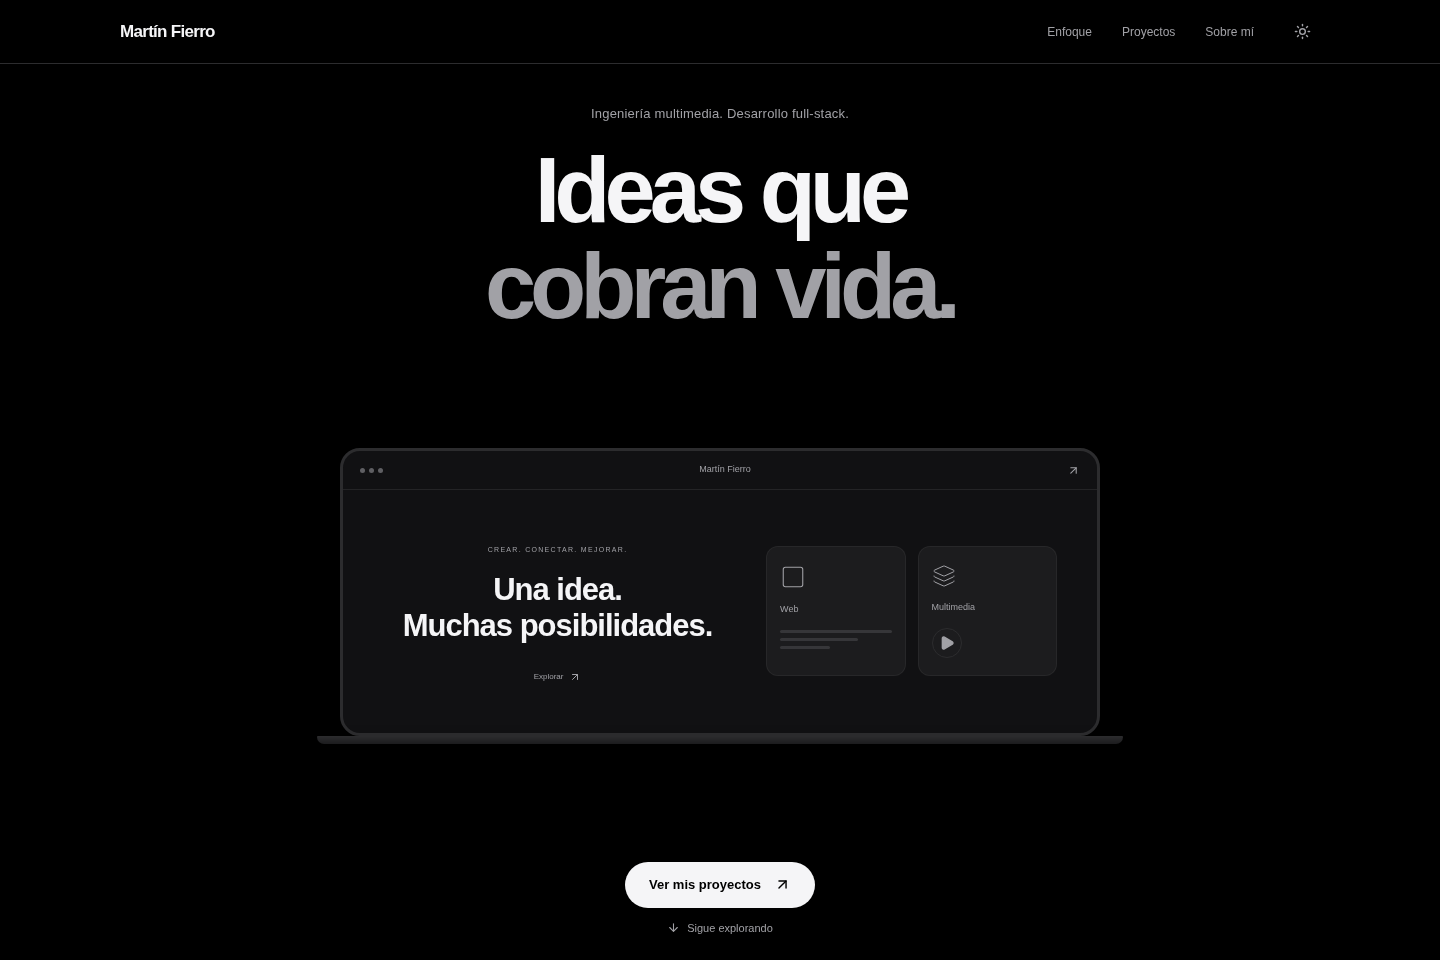
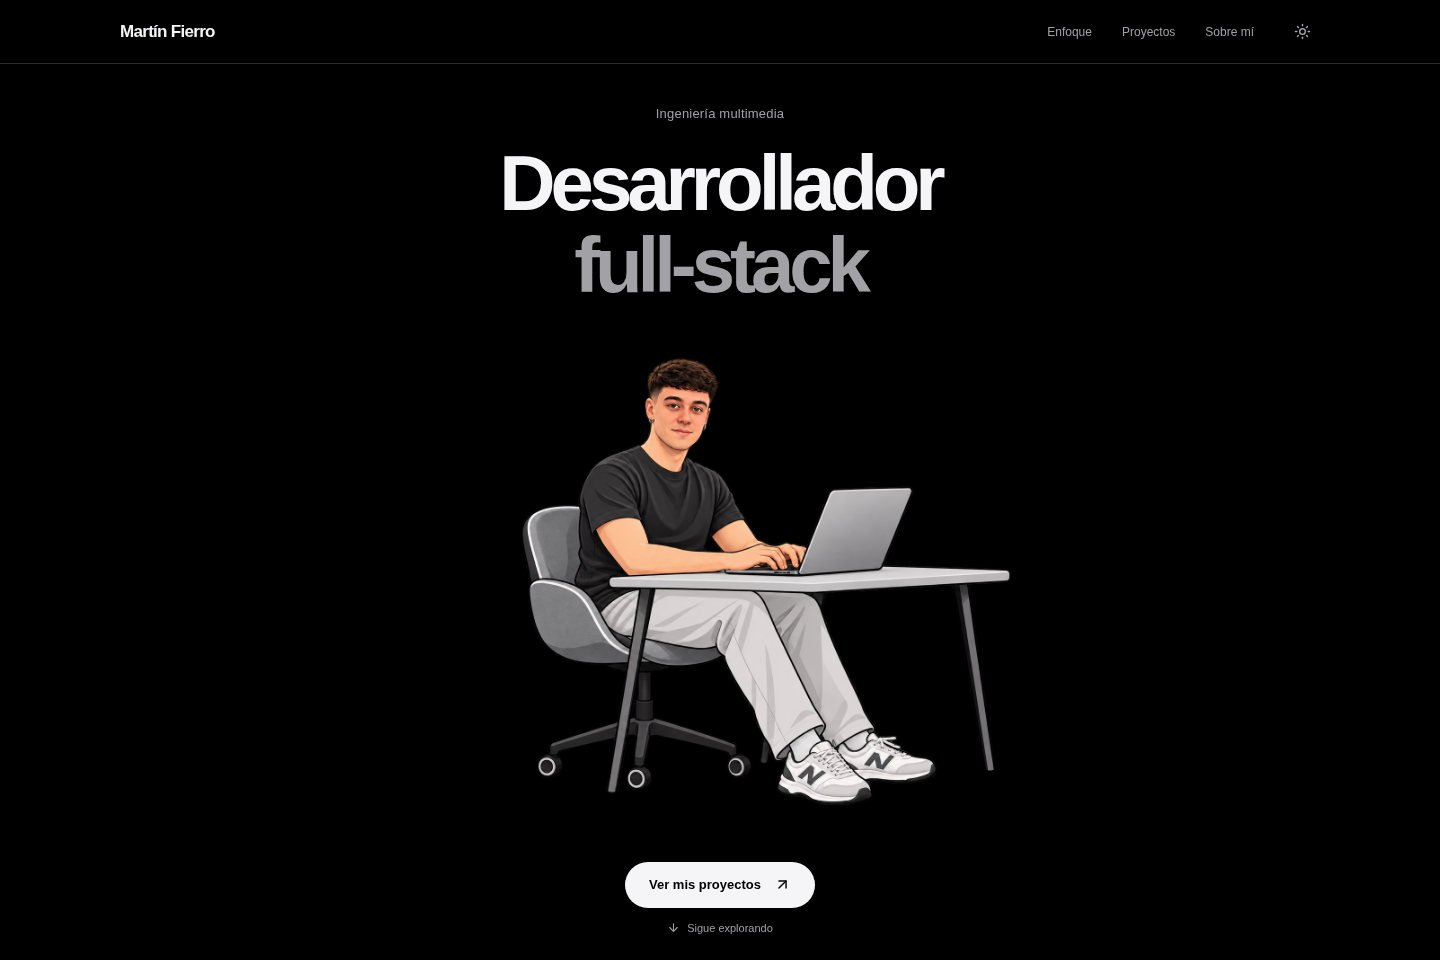
Add themed illustration of Martín working at his laptop

Changed region(s): [[0.2188, 0.375, 0.7812, 0.8438], [0.3125, 0.1562, 0.6875, 0.3438], [0.4062, 0.0938, 0.5938, 0.125]]

diff --git a/src/styles/home.css b/src/styles/home.css
@@ -12,7 +12,7 @@
   max-width: 900px;
 }
 .hero h1 {
-  font-size: clamp(52px, 6.7vw, 92px);
+  font-size: clamp(48px, 5.8vw, 78px);
   font-weight: 650;
   letter-spacing: -0.065em;
   line-height: 1.04;
@@ -34,129 +34,12 @@
   min-height: 0;
   padding-block: 12px;
 }
-.product-preview {
-  display: grid;
-  grid-template-rows: minmax(0, 1fr) 12px;
-  width: min(100%, 760px);
-  height: min(100%, 300px);
-  outline-offset: 8px;
-  border-radius: 22px;
-  transition: transform 400ms;
-}
-.product-preview:hover {
-  transform: translateY(-4px);
-}
-.product-device {
-  min-height: 0;
-  overflow: hidden;
-  border: 3px solid var(--line);
-  border-radius: 20px;
-  background: var(--surface);
-  box-shadow: 0 24px 80px #00000030;
-}
-.product-toolbar {
-  display: flex;
-  align-items: center;
-  justify-content: space-between;
-  padding: 12px 17px;
-  border-bottom: 1px solid var(--line-soft);
-  color: var(--muted);
-  font-size: 9px;
-}
-.product-dots {
-  display: flex;
-  gap: 4px;
-}
-.product-dots i {
-  width: 5px;
-  height: 5px;
-  border-radius: 50%;
-  background: var(--muted);
-  opacity: 0.55;
-}
-.product-screen {
-  display: grid;
-  grid-template-columns: 1.2fr 1fr;
-  align-items: center;
-  gap: 34px;
-  height: calc(100% - 40px);
-  min-height: 0;
-  padding: 22px 40px;
-}
-.product-screen-copy > span:first-child {
-  font-size: 7px;
-  letter-spacing: 1.3px;
-  color: var(--muted);
-}
-.product-screen-copy strong {
+.developer-illustration {
   display: block;
-  font-size: clamp(20px, 2.4vw, 31px);
-  font-weight: 550;
-  line-height: 1.16;
-  letter-spacing: -1px;
-  margin-block: 13px 18px;
-}
-.product-mini-link {
-  display: inline-flex;
-  align-items: center;
-  gap: 6px;
-  color: var(--muted);
-  font-size: 8px;
-}
-.product-tiles {
-  display: grid;
-  grid-template-columns: 1fr 1fr;
-  gap: 12px;
-}
-.product-tile {
-  display: flex;
-  flex-direction: column;
-  align-items: start;
-  gap: 13px;
-  position: relative;
-  padding: 17px 13px;
-  border: 1px solid var(--line-soft);
-  border-radius: 12px;
-  min-height: 126px;
-  color: var(--muted);
-  background: var(--surface-high);
-}
-.product-tile > span {
-  font-size: 9px;
-}
-.product-bars {
-  display: grid;
-  gap: 5px;
-  width: 100%;
-}
-.product-bars i {
-  height: 3px;
-  border-radius: 2px;
-  background: var(--muted);
-  opacity: 0.2;
-}
-.product-bars i:nth-child(2) {
-  width: 70%;
-}
-.product-bars i:nth-child(3) {
-  width: 45%;
-}
-.product-play {
-  display: grid;
-  place-items: center;
-  width: 30px;
-  height: 30px;
-  border: 1px solid var(--line);
-  border-radius: 50%;
-}
-.product-foot {
-  display: block;
-  height: 8px;
-  width: 106%;
-  margin-left: -3%;
-  border-radius: 2px 2px 16px 16px;
-  background: linear-gradient(var(--line), var(--surface-high));
-  box-shadow: 0 18px 30px #00000030;
+  width: min(100%, 720px);
+  height: 100%;
+  max-height: 460px;
+  object-fit: contain;
 }
 .hero-discover {
   display: flex;
@@ -239,49 +122,12 @@
     gap: 16px;
   }
   .hero h1 {
-    font-size: clamp(44px, 11.5vw, 74px);
+    font-size: clamp(36px, 9.8vw, 64px);
   }
   .hero-role {
     max-width: 280px;
     margin: 0 auto 16px;
     font-size: 12px;
-  }
-  .product-preview {
-    max-height: 230px;
-    width: 94%;
-  }
-  .product-toolbar {
-    padding: 9px 12px;
-    font-size: 8px;
-  }
-  .product-screen {
-    gap: 12px;
-    padding: 14px 16px;
-    height: calc(100% - 32px);
-  }
-  .product-screen-copy > span:first-child {
-    font-size: 5px;
-    letter-spacing: 0.7px;
-  }
-  .product-screen-copy strong {
-    font-size: 17px;
-    letter-spacing: -0.5px;
-    margin-block: 9px 12px;
-  }
-  .product-tiles {
-    grid-template-columns: 1fr;
-  }
-  .product-tile {
-    min-height: 100px;
-    padding: 12px;
-    gap: 12px;
-  }
-  .product-tile-media {
-    display: none;
-  }
-  .product-foot {
-    width: 104%;
-    margin-left: -2%;
   }
   .discover-link {
     padding: 12px 22px;
@@ -307,20 +153,10 @@
     gap: 12px;
   }
   .hero h1 {
-    font-size: clamp(40px, 7vw, 64px);
+    font-size: clamp(34px, 5.8vw, 60px);
   }
   .hero-role {
     margin-bottom: 10px;
-  }
-  .product-screen-copy strong {
-    font-size: 20px;
-  }
-  .product-tile {
-    min-height: 82px;
-    gap: 9px;
-  }
-  .product-bars {
-    display: none;
   }
 }
 @media (max-height: 450px) {
@@ -343,34 +179,6 @@
   }
   .hero-art {
     padding-block: 5px;
-  }
-  .product-preview {
-    max-width: 460px;
-  }
-  .product-toolbar {
-    padding-block: 7px;
-  }
-  .product-screen {
-    padding: 8px 18px;
-  }
-  .product-screen-copy strong {
-    font-size: 16px;
-    margin: 0;
-  }
-  .product-screen-copy > span {
-    display: none;
-  }
-  .product-tile {
-    min-height: 58px;
-    padding: 8px;
-    gap: 5px;
-  }
-  .product-tile > svg {
-    width: 17px;
-    height: 17px;
-  }
-  .product-play {
-    display: none;
   }
   .hero-discover {
     gap: 7px;

diff --git a/src/Bio.jsx b/src/Bio.jsx
@@ -7,9 +7,9 @@ import {
 } from "framer-motion";
 import { ArrowDown, ArrowUpRight } from "lucide-react";
 import Reveal from "./components/Reveal";
-import ProductPreview from "./components/ProductPreview";
+import DeveloperIllustration from "./components/DeveloperIllustration";
 
-export default function Bio() {
+export default function Bio({ dark }) {
   const sectionRef = useRef(null);
   const reducedMotion = useReducedMotion();
   const { scrollYProgress } = useScroll({
@@ -28,20 +28,18 @@ export default function Bio() {
       aria-labelledby="hero-title"
     >
       <Reveal className="hero-heading shell">
-        <p className="hero-role">
-          Ingeniería multimedia. Desarrollo full-stack.
-        </p>
+        <p className="hero-role">Ingeniería multimedia</p>
         <h1 id="hero-title">
-          Ideas que
+          Desarrollador
           <br />
-          <span>cobran vida.</span>
+          <span>full-stack</span>
         </h1>
       </Reveal>
       <Motion.div
         className="hero-art shell"
         style={reducedMotion ? undefined : { scale, opacity, y }}
       >
-        <ProductPreview />
+        <DeveloperIllustration dark={dark} />
       </Motion.div>
       <div className="hero-discover shell">
         <a className="discover-link" href="#proyectos">

diff --git a/src/components/DeveloperIllustration.jsx b/src/components/DeveloperIllustration.jsx
@@ -1,0 +1,13 @@
+export default function DeveloperIllustration({ dark }) {
+  return (
+    <img
+      className="developer-illustration"
+      src={`/illustrations/martin-${dark ? "dark" : "light"}.png`}
+      alt="Ilustración de Martín Fierro sentado en su escritorio, trabajando en un portátil."
+      width={1536}
+      height={1024}
+      fetchPriority="high"
+      decoding="async"
+    />
+  );
+}

diff --git a/src/App.jsx b/src/App.jsx
@@ -86,7 +86,7 @@ export default function App() {
       <main id="contenido" tabIndex={-1}>
         {route.page === "home" ? (
           <>
-            <Bio />
+            <Bio dark={dark} />
             <Experience />
             <Projects />
             <About />

diff --git a/README.md b/README.md
@@ -20,6 +20,7 @@ npm run preview
 ## Estructura
 
 - `src/data/projects.js`: contenido de todas las fichas, tecnologías, proceso, capturas y enlaces.
+- `src/components/DeveloperIllustration.jsx`: ilustración de Martín con variantes para cada tema en `public/illustrations/`.
 - `src/components/Experience.jsx`: sección del enfoque de trabajo.
 - `src/components/Projects.jsx`: catálogo y filtros.
 - `src/components/ProjectDetail.jsx`: ficha reutilizable.
